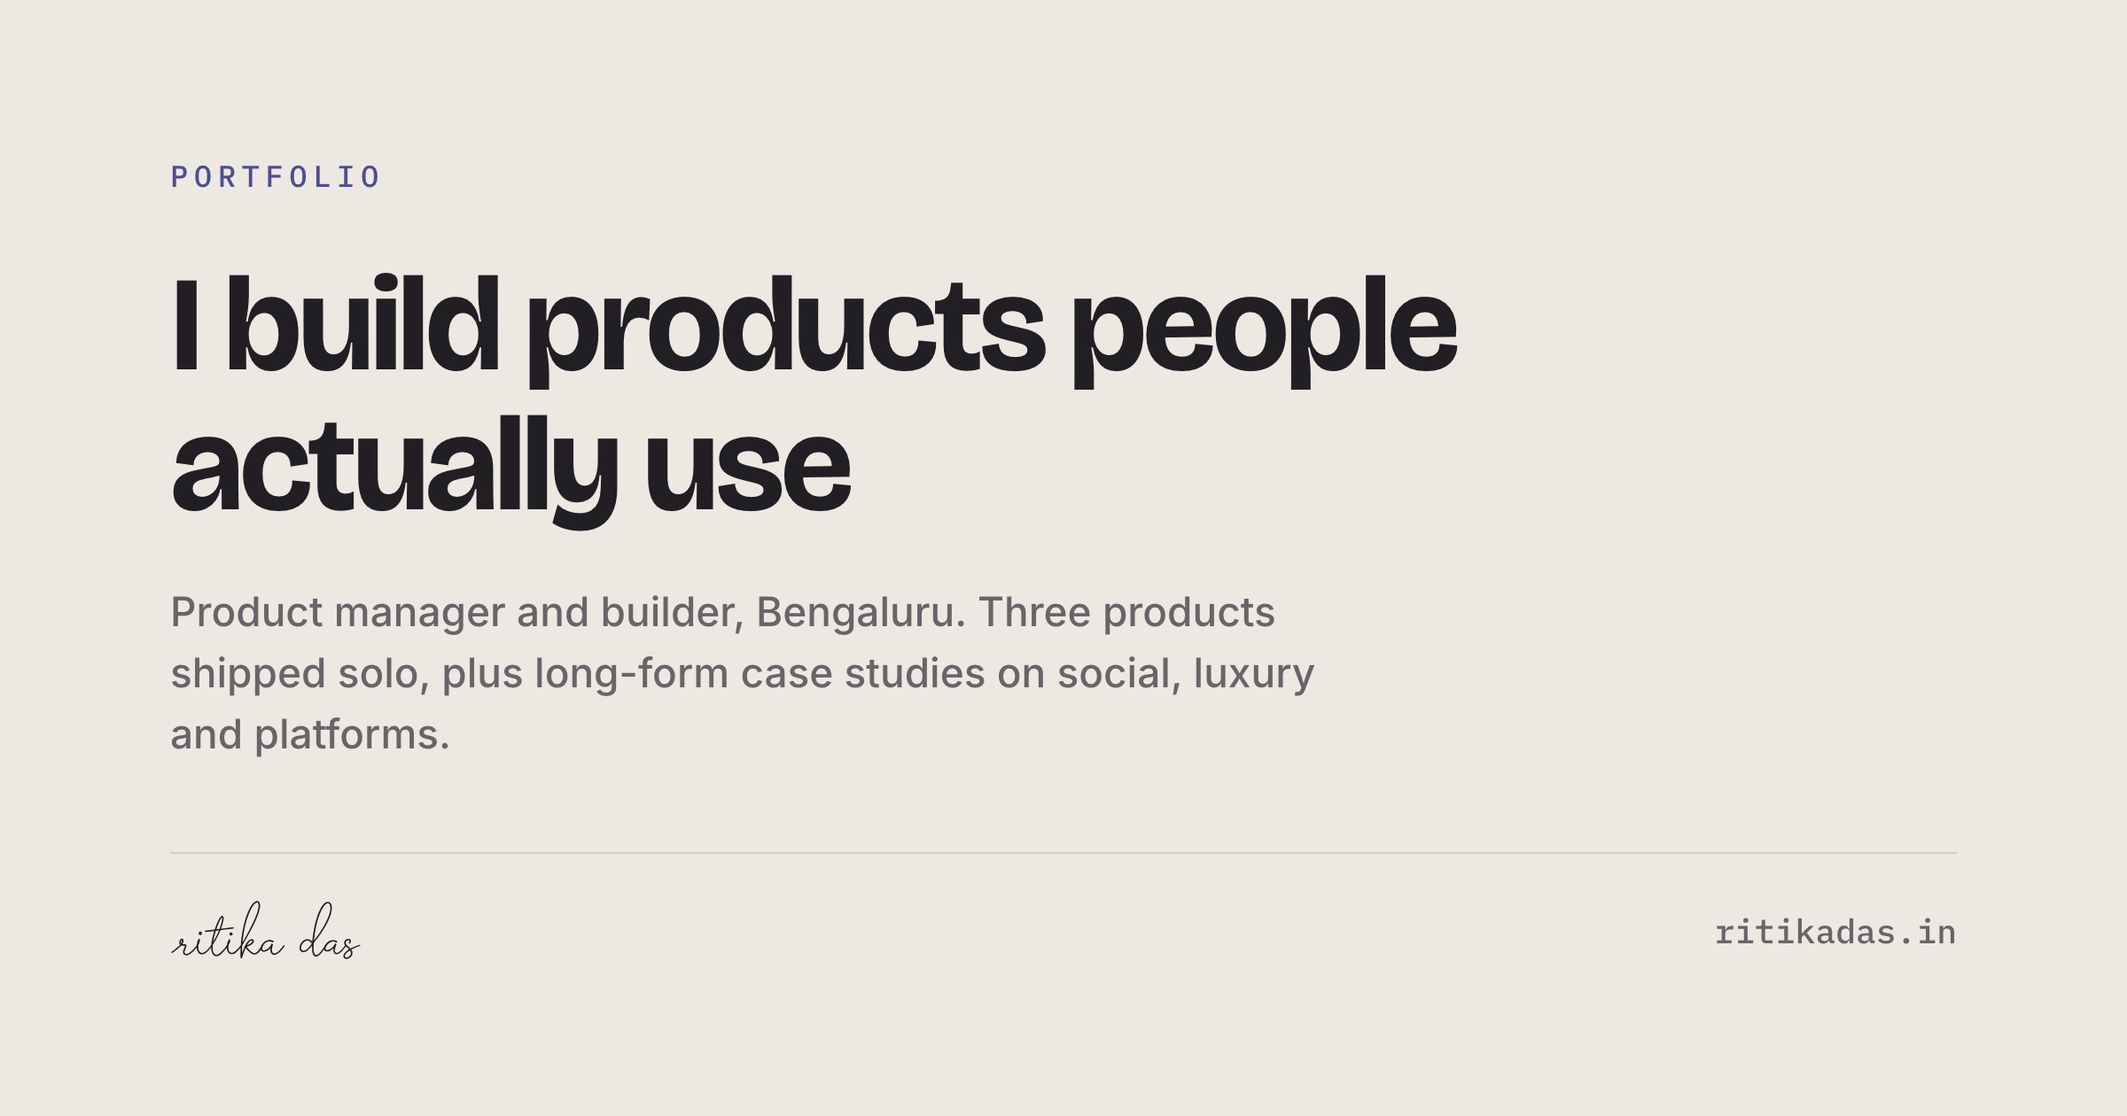
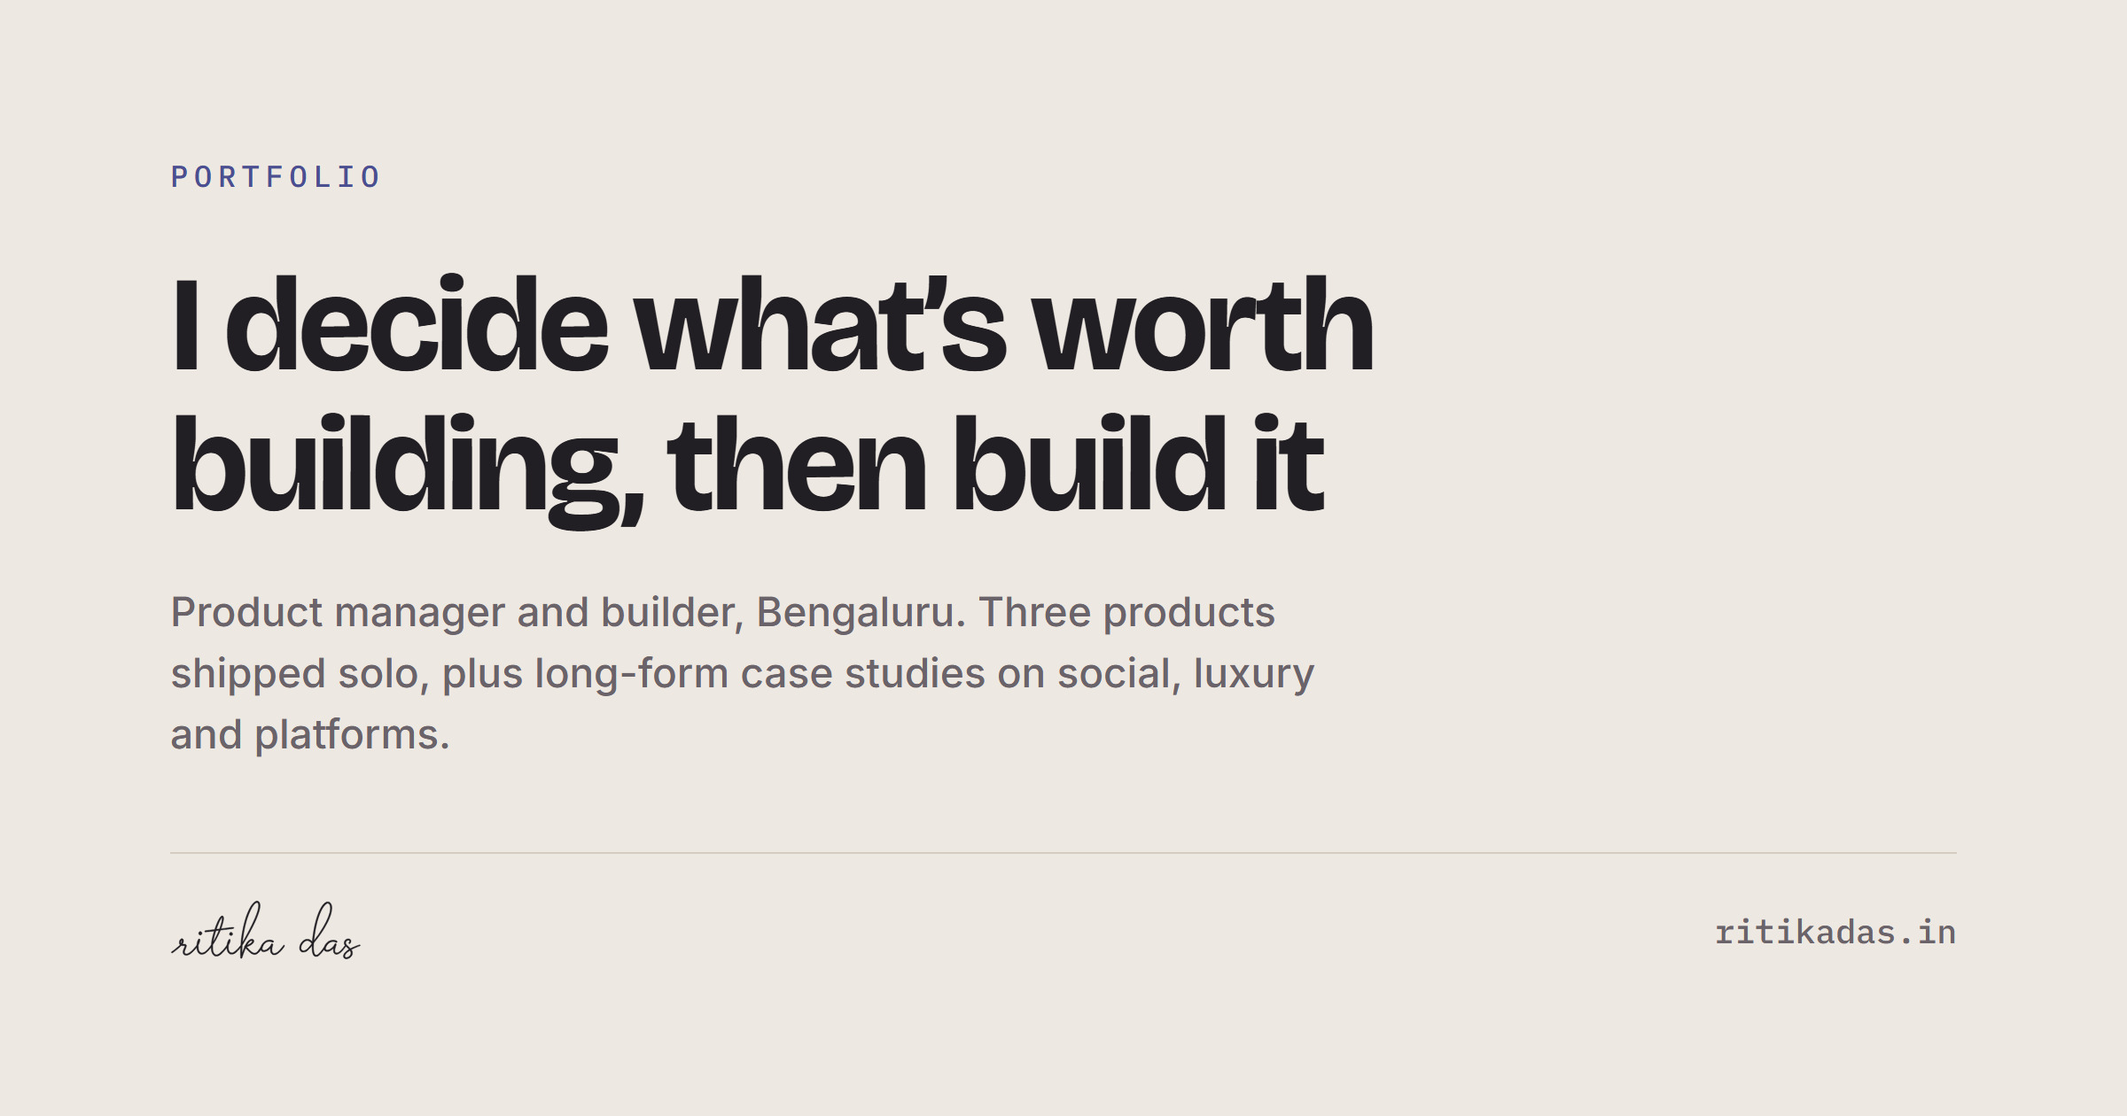
Bring every preview image and meta tag back in line with the copy
The pages moved a long way and the sharing layer did not follow. Anyone
pasting a link into Slack or LinkedIn was getting the site as it read
several commits ago.

The worst of it: work/amazon/ still advertised "Every number a PM then
sees is worked out in code" in its og:description — the exact sentence
that was removed from the card for undercutting the AI. work/savio/ still
led with "Code works out every number." Both are now the AI-forward line
the pages actually carry.

Three preview images had the old titles baked into the artwork, because
og-card.py draws the headline into the picture:

  home      "I build products people actually use"  -> the new hero line
  fitcheck  "The Size Chart That Is Read for You"   -> FitCheck
  savio     "A Money App That Waits"                -> Savio
  amazon    "Customer Complaints, Ranked Every Week" -> Amazon Discovery
                                                        Intelligence

Titles now match each page's h1 and hooks match its subtitle, so a card
and the page behind it say the same thing. Bylines carry the descriptor
that the title used to ("Chrome extension · shipped, in use") rather than
repeating the name. All twelve images regenerated.

CREW's description was already mellow but worded differently in three
places; og:description, twitter:description and the image hook now share
one sentence with the card and the article.

Also: og:image:alt strings still described the old positioning, the
[…]

diff --git a/index.html b/index.html
@@ -4,7 +4,7 @@
 <meta charset="UTF-8">
 <meta name="viewport" content="width=device-width, initial-scale=1">
 <title>Ritika Das — Product Manager & Builder</title>
-<meta name="description" content="Personal portfolio of Ritika Das — Product Manager & Builder. Three products built and shipped solo, plus case studies across social, luxury, and platforms.">
+<meta name="description" content="Ritika Das — product manager and builder in Bengaluru. Three products shipped solo and the calls behind each, plus case studies across social, luxury and platforms.">
 <link rel="canonical" href="https://ritikadas.in/">
 <!-- Link preview. og:image must be an absolute URL — every scraper fetches it
      out of context, so a relative path silently yields no card. -->
@@ -17,7 +17,7 @@
 <meta property="og:image:type" content="image/jpeg">
 <meta property="og:image:width" content="2400">
 <meta property="og:image:height" content="1260">
-<meta property="og:image:alt" content="Ritika Das &mdash; product manager and builder, Bengaluru. ritikadas.in.">
+<meta property="og:image:alt" content="I decide what&#39;s worth building, then build it &mdash; Ritika Das, product manager and builder, Bengaluru. ritikadas.in.">
 <meta name="twitter:card" content="summary_large_image">
 <meta name="twitter:title" content="Ritika Das &mdash; Product Manager &amp; Builder">
 <meta name="twitter:description" content="I decide what&#39;s worth building, then build it. Three products shipped solo and the calls behind each, plus long-form case studies on social, luxury and platforms.">
@@ -235,7 +235,7 @@
 
       <div class="card work-card reveal" data-project="fitcheck">
         <figure class="card-art">
-          <img src="assets/og/fitcheck-card.jpg" alt="" width="1000" height="1000" loading="lazy" decoding="async" />
+          <img src="assets/og/fitcheck-card.jpg?v=6" alt="" width="1000" height="1000" loading="lazy" decoding="async" />
         </figure>
         <div class="card-tags"><span class="tag live">&#9679; In use</span><span class="tag">Chrome extension</span></div>
         <h3><a class="card-link" href="work/fitcheck/"><span class="nb">FitCheck <span class="arr">&#8599;</span></span></a></h3>
@@ -251,7 +251,7 @@
 
       <div class="card work-card reveal" data-project="savio">
         <figure class="card-art">
-          <img src="assets/og/savio-card.jpg" alt="" width="1000" height="1000" loading="lazy" decoding="async" />
+          <img src="assets/og/savio-card.jpg?v=6" alt="" width="1000" height="1000" loading="lazy" decoding="async" />
         </figure>
         <div class="card-tags"><span class="tag live">&#9679; Deployed</span><span class="tag">Consumer AI</span></div>
         <h3><a class="card-link" href="work/savio/"><span class="nb">Savio <span class="arr">&#8599;</span></span></a></h3>
@@ -267,7 +267,7 @@
 
       <div class="card work-card reveal" data-project="amazon">
         <figure class="card-art">
-          <img src="assets/og/amazon-card.jpg" alt="" width="1000" height="1000" loading="lazy" decoding="async" />
+          <img src="assets/og/amazon-card.jpg?v=6" alt="" width="1000" height="1000" loading="lazy" decoding="async" />
         </figure>
         <div class="card-tags"><span class="tag live">&#9679; Deployed</span><span class="tag">Multi-agent pipeline</span></div>
         <h3><a class="card-link" href="work/amazon/">Amazon Discovery <span class="nb">Intelligence <span class="arr">&#8599;</span></span></a></h3>
@@ -311,7 +311,7 @@
            sits beside its siblings in a grid instead of stacked below them. -->
       <div class="card written work-card reveal" data-project="crew">
         <figure class="card-art">
-          <img src="assets/og/crew-card.jpg?v=5" alt="" width="1000" height="1000" loading="lazy" decoding="async" />
+          <img src="assets/og/crew-card.jpg?v=6" alt="" width="1000" height="1000" loading="lazy" decoding="async" />
         </figure>
         <div class="card-tags">
           <span class="tag solid" style="color:var(--crew-brand);border-color:var(--crew-line);background:var(--crew-tint);font-weight:600">&#9679; CREW Study</span>
@@ -325,7 +325,7 @@
 
       <div class="card written work-card reveal" data-project="reddit">
         <figure class="card-art">
-          <img src="assets/og/reddit-card.jpg" alt="" width="1000" height="1000" loading="lazy" decoding="async" />
+          <img src="assets/og/reddit-card.jpg?v=6" alt="" width="1000" height="1000" loading="lazy" decoding="async" />
         </figure>
         <div class="card-tags">
           <span class="tag solid" style="color:var(--study-reddit);border-color:color-mix(in srgb,var(--study-reddit) 38%,transparent);background:color-mix(in srgb,var(--study-reddit) 8%,transparent);font-weight:600">&#9679; Reddit Study</span>
@@ -339,7 +339,7 @@
 
       <div class="card written work-card reveal" data-project="youtube">
         <figure class="card-art">
-          <img src="assets/og/youtube-card.jpg" alt="" width="1000" height="1000" loading="lazy" decoding="async" />
+          <img src="assets/og/youtube-card.jpg?v=6" alt="" width="1000" height="1000" loading="lazy" decoding="async" />
         </figure>
         <div class="card-tags">
           <span class="tag solid" style="color:var(--study-youtube);border-color:color-mix(in srgb,var(--study-youtube) 38%,transparent);background:color-mix(in srgb,var(--study-youtube) 8%,transparent);font-weight:600">&#9679; YouTube Study</span>

diff --git a/work/savio/index.html b/work/savio/index.html
@@ -4,21 +4,21 @@
 <meta charset="utf-8">
 <meta name="viewport" content="width=device-width,initial-scale=1">
 <title>Savio &mdash; Ritika Das</title>
-<meta name="description" content="A money app that answers the question you actually have &mdash; can I afford this, right now &mdash; and would rather stay quiet than show a number it can't stand behind.">
+<meta name="description" content="An AI companion for the one question budget apps never answer: can I afford this, right now? It reasons over your real income, commitments and goals.">
 <link rel="canonical" href="https://ritikadas.in/work/savio/">
 <meta property="og:type" content="website">
 <meta property="og:site_name" content="Ritika Das">
 <meta property="og:url" content="https://ritikadas.in/work/savio/">
 <meta property="og:title" content="Savio">
-<meta property="og:description" content="Code works out every number. The AI writes the sentence you actually read. Every figure is traced back to your real data before it reaches you.">
+<meta property="og:description" content="An AI companion for the one question budget apps never answer: can I afford this, right now? It reasons over your real income, commitments and goals.">
 <meta property="og:image" content="https://ritikadas.in/assets/og/savio-og.jpg">
 <meta property="og:image:type" content="image/jpeg">
 <meta property="og:image:width" content="2400">
 <meta property="og:image:height" content="1260">
-<meta property="og:image:alt" content="Savio &mdash; a money app that waits, on ritikadas.in.">
+<meta property="og:image:alt" content="Savio &mdash; an AI money companion that answers whether you can afford something, on ritikadas.in.">
 <meta name="twitter:card" content="summary_large_image">
 <meta name="twitter:title" content="Savio">
-<meta name="twitter:description" content="Code works out every number. The AI writes the sentence you actually read. Every figure is traced back to your real data before it reaches you.">
+<meta name="twitter:description" content="An AI companion for the one question budget apps never answer: can I afford this, right now? It reasons over your real income, commitments and goals.">
 <meta name="twitter:image" content="https://ritikadas.in/assets/og/savio-og.jpg">
 <meta name="theme-color" content="#EDE8E1" media="(prefers-color-scheme: light)">
 <meta name="theme-color" content="#1A171C" media="(prefers-color-scheme: dark)">

diff --git a/work/amazon/index.html b/work/amazon/index.html
@@ -4,21 +4,21 @@
 <meta charset="utf-8">
 <meta name="viewport" content="width=device-width,initial-scale=1">
 <title>Amazon Discovery Intelligence &mdash; Ritika Das</title>
-<meta name="description" content="A thirteen-step pipeline that turns a week of Amazon reviews into a ranked list a PM can act on, with every claim traceable to the review behind it.">
+<meta name="description" content="A thirteen-step agentic AI pipeline that turns a week of Amazon reviews into a ranked, cited backlog a PM can act on.">
 <link rel="canonical" href="https://ritikadas.in/work/amazon/">
 <meta property="og:type" content="website">
 <meta property="og:site_name" content="Ritika Das">
 <meta property="og:url" content="https://ritikadas.in/work/amazon/">
 <meta property="og:title" content="Amazon Discovery Intelligence">
-<meta property="og:description" content="Thirteen steps, and AI runs at three of them. Every number a PM then sees is worked out in code.">
+<meta property="og:description" content="An agentic pipeline that reads a week of customer complaints and hands a PM a ranked, cited backlog.">
 <meta property="og:image" content="https://ritikadas.in/assets/og/amazon-og.jpg">
 <meta property="og:image:type" content="image/jpeg">
 <meta property="og:image:width" content="2400">
 <meta property="og:image:height" content="1260">
-<meta property="og:image:alt" content="Amazon Discovery Intelligence &mdash; customer complaints, ranked every week, on ritikadas.in.">
+<meta property="og:image:alt" content="Amazon Discovery Intelligence &mdash; a thirteen-step agentic AI pipeline that ranks customer complaints, on ritikadas.in.">
 <meta name="twitter:card" content="summary_large_image">
 <meta name="twitter:title" content="Amazon Discovery Intelligence">
-<meta name="twitter:description" content="Thirteen steps, and AI runs at three of them. Every number a PM then sees is worked out in code.">
+<meta name="twitter:description" content="An agentic pipeline that reads a week of customer complaints and hands a PM a ranked, cited backlog.">
 <meta name="twitter:image" content="https://ritikadas.in/assets/og/amazon-og.jpg">
 <meta name="theme-color" content="#EDE8E1" media="(prefers-color-scheme: light)">
 <meta name="theme-color" content="#1A171C" media="(prefers-color-scheme: dark)">

diff --git a/writing/crew/index.html b/writing/crew/index.html
@@ -12,7 +12,7 @@
 <meta property="og:site_name" content="Ritika Das">
 <meta property="og:url" content="https://ritikadas.in/writing/crew/">
 <meta property="og:title" content="Handing Over Is the Hard Part">
-<meta property="og:description" content="A concierge sells one thing: the freedom to stop thinking about something. CREW&#x27;s own reviewers describe checking its work.">
+<meta property="og:description" content="A concierge sells one thing: the freedom to stop thinking about something. CREW&#x27;s own reviewers say they check its bookings and plan the trip themselves anyway.">
 <meta property="og:image" content="https://ritikadas.in/assets/og/crew-og.jpg">
 <meta property="og:image:type" content="image/jpeg">
 <meta property="og:image:width" content="2400">
@@ -20,7 +20,7 @@
 <meta property="og:image:alt" content="Handing Over Is the Hard Part &mdash; a product teardown of CREW, Swiggy&#x27;s travel concierge, on ritikadas.in.">
 <meta name="twitter:card" content="summary_large_image">
 <meta name="twitter:title" content="Handing Over Is the Hard Part">
-<meta name="twitter:description" content="A concierge sells one thing: the freedom to stop thinking about something. CREW&#x27;s own reviewers describe checking its work.">
+<meta name="twitter:description" content="A concierge sells one thing: the freedom to stop thinking about something. CREW&#x27;s own reviewers say they check its bookings and plan the trip themselves anyway.">
 <meta name="twitter:image" content="https://ritikadas.in/assets/og/crew-og.jpg">
 <meta name="theme-color" content="#EDE8E1" media="(prefers-color-scheme: light)">
 <meta name="theme-color" content="#1A171C" media="(prefers-color-scheme: dark)">

diff --git a/work/fitcheck/index.html b/work/fitcheck/index.html
@@ -10,7 +10,7 @@
 <meta property="og:site_name" content="Ritika Das">
 <meta property="og:url" content="https://ritikadas.in/work/fitcheck/">
 <meta property="og:title" content="FitCheck">
-<meta property="og:description" content="A calculator, not a guess. It compares the fit a garment was designed for with the fit you would actually get.">
+<meta property="og:description" content="A calculator, not a guess. It reads the size chart already on the page and works out whether the size will actually fit.">
 <meta property="og:image" content="https://ritikadas.in/assets/og/fitcheck-og.jpg">
 <meta property="og:image:type" content="image/jpeg">
 <meta property="og:image:width" content="2400">
@@ -18,7 +18,7 @@
 <meta property="og:image:alt" content="FitCheck &mdash; a Chrome extension that reads size charts, on ritikadas.in.">
 <meta name="twitter:card" content="summary_large_image">
 <meta name="twitter:title" content="FitCheck">
-<meta name="twitter:description" content="A calculator, not a guess. It compares the fit a garment was designed for with the fit you would actually get.">
+<meta name="twitter:description" content="A calculator, not a guess. It reads the size chart already on the page and works out whether the size will actually fit.">
 <meta name="twitter:image" content="https://ritikadas.in/assets/og/fitcheck-og.jpg">
 <meta name="theme-color" content="#EDE8E1" media="(prefers-color-scheme: light)">
 <meta name="theme-color" content="#1A171C" media="(prefers-color-scheme: dark)">

diff --git a/writing/amazon/index.html b/writing/amazon/index.html
@@ -18,7 +18,7 @@
 </head>
 <body>
 <main class="art-wrap" style="padding-top:80px">
-  <h1 class="art-title">Customer complaints, ranked every week</h1>
+  <h1 class="art-title">Amazon Discovery Intelligence</h1>
   <p class="art-sub">This write-up now lives on the project page.
     <a href="../../work/amazon/">Continue to Amazon Discovery Intelligence &rarr;</a></p>
 </main>

diff --git a/writing/fitcheck/index.html b/writing/fitcheck/index.html
@@ -18,7 +18,7 @@
 </head>
 <body>
 <main class="art-wrap" style="padding-top:80px">
-  <h1 class="art-title">The size chart that is read for you</h1>
+  <h1 class="art-title">FitCheck</h1>
   <p class="art-sub">This write-up now lives on the project page.
     <a href="../../work/fitcheck/">Continue to FitCheck &rarr;</a></p>
 </main>

diff --git a/writing/savio/index.html b/writing/savio/index.html
@@ -18,7 +18,7 @@
 </head>
 <body>
 <main class="art-wrap" style="padding-top:80px">
-  <h1 class="art-title">A money app that waits</h1>
+  <h1 class="art-title">Savio</h1>
   <p class="art-sub">This write-up now lives on the project page.
     <a href="../../work/savio/">Continue to Savio &rarr;</a></p>
 </main>

diff --git a/tools/og-card.py b/tools/og-card.py
@@ -91,7 +91,7 @@ ARTICLES = {
     # the positioning, set in type. See home().
     "home": {
         "kicker": "Portfolio",
-        "title": "I build products people actually use",
+        "title": "I decide what’s worth building, then build it",
         "hook": "Product manager and builder, Bengaluru. Three products shipped solo, "
                 "plus long-form case studies on social, luxury and platforms.",
         "byline": "Ritika Das",
@@ -106,10 +106,10 @@ ARTICLES = {
         # FitCheck's own navy rather than a retailer's colour, and the subject is a
         # browser: the product lives beside a shop's page, not inside an app.
         "kicker": "Shipped product",
-        "title": "The Size Chart That Is Read for You",
-        "hook": "Across four tabs the same letter meant four different bodies. Every "
-                "page already had a size chart on it.",
-        "byline": "FitCheck · Chrome extension",
+        "title": "FitCheck",
+        "hook": "A calculator, not a guess. It reads the size chart already on the "
+                "page and works out whether the size will actually fit.",
+        "byline": "Chrome extension · shipped, in use",
         "brand": "#1E3A5F", "rgb": "30,58,95",
         "field": ("#3E6EA5", "#2C5581", "#1E3A5F", "#101F33"),
         "icon": "assets/fitcheck-icon.png", "icon_radius": 12,
@@ -119,10 +119,10 @@ ARTICLES = {
         # A phone subject, unlike FitCheck's browser: Savio is the app, not something
         # riding alongside someone else's page. Field is its own sage green.
         "kicker": "Shipped product",
-        "title": "A Money App That Waits",
-        "hook": "Nobody stands in a fitting room and opens an app to ask whether "
-                "₹3,500 is sensible. So the category fights for a moment nobody is in.",
-        "byline": "Savio · AI money companion",
+        "title": "Savio",
+        "hook": "An AI companion for the one question budget apps never answer: "
+                "can I afford this, right now?",
+        "byline": "AI money companion · deployed",
         "brand": "#2F5D50", "rgb": "47,93,80",
         "field": ("#4E8C77", "#2F5D50", "#1E3F36", "#0F221D"),
         # Savio's own mark — the gradient dot that fronts every reply in the app.
@@ -134,10 +134,10 @@ ARTICLES = {
         # Field is Amazon's ink-and-amber rather than the orange smile, so it reads
         # as analysis of the company rather than anything endorsed by it.
         "kicker": "Shipped product",
-        "title": "Customer Complaints, Ranked Every Week",
-        "hook": "Every pipeline diagram starts with an arrow labelled data. The arrow "
-                "is the hard bit.",
-        "byline": "Amazon Discovery Intelligence",
+        "title": "Amazon Discovery Intelligence",
+        "hook": "An agentic pipeline that reads a week of customer complaints and "
+                "hands a PM a ranked, cited backlog.",
+        "byline": "Agentic AI pipeline · deployed",
         "brand": "#1F2937", "rgb": "31,41,55",
         "field": ("#4A5A6B", "#2C3A47", "#1F2937", "#0E141B"),
         "icon": "assets/amazon-icon.svg", "icon_radius": 0,
@@ -147,7 +147,8 @@ ARTICLES = {
         "kicker": "Product teardown",
         "title": "Handing Over Is the Hard Part",
         "hook": "A concierge sells one thing: the freedom to stop thinking about "
-                "something. CREW’s own reviewers describe checking its work.",
+                "something. CREW’s own reviewers say they check its bookings "
+                "and plan the trip themselves anyway.",
         # No quote: the field is the product plate — mark, device, name — not a
         # second place to restate the argument the hook already makes.
         "byline": "CREW · Swiggy’s travel concierge",
